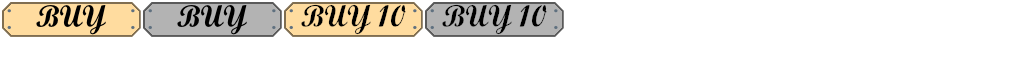
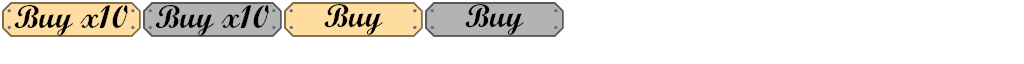
UI elements (Buttons) fix

Changed region(s): [[0.0, 0.0625, 0.5312, 0.5625]]

diff --git a/core/src/ui/MainMenu.java b/core/src/ui/MainMenu.java
@@ -6,15 +6,16 @@ import com.badlogic.gdx.graphics.g2d.BitmapFont;
 import com.badlogic.gdx.scenes.scene2d.ui.Image;
 import com.badlogic.gdx.scenes.scene2d.ui.Label;
 import com.badlogic.gdx.scenes.scene2d.ui.Table;
+import com.badlogic.gdx.utils.Align;
 import com.pl.firstclicker.PierogiClicker;
 
 public class MainMenu extends Table {
 
-    private Label.LabelStyle labelStyle;
+    private Label.LabelStyle labelStyle, warningLabelStyle;
     private Image menuBackground;
     private boolean menuHidden, warned;
     private PierogiClicker game;
-    private Label warningLabel;
+    private Label warningLabel, menuLabel;
 
     public MainMenu(PierogiClicker game){
         this.game = game;
@@ -28,7 +29,7 @@ public class MainMenu extends Table {
     }
 
     private void init() {
-        this.add(new Label("MAIN MENU",labelStyle)).height(100f).padTop(20f);
+        this.add(menuLabel).height(100f).padTop(20f);
         this.row();
         this.add(new MenuUIButton(true, new IClickCallback() {
             @Override
@@ -75,9 +76,13 @@ public class MainMenu extends Table {
     private void prepareContents() {
         labelStyle = new Label.LabelStyle();
         labelStyle.font = new BitmapFont(Gdx.files.internal("scriptfontbig.fnt"));
+        warningLabelStyle = new Label.LabelStyle();
+        warningLabelStyle.font = new BitmapFont(Gdx.files.internal("descfont.fnt"));
         menuBackground = new Image(new Texture("shopBg.png"));
         this.setBackground(menuBackground.getDrawable());
-        warningLabel = new Label("THIS WILL ERASE \nYOUR WHOLE PROGRESS.\nARE YOU SURE?",labelStyle);
+        menuLabel = new Label("MAIN MENU \n Created by Szymon Galazka",labelStyle);
+        menuLabel.setAlignment(Align.center);
+        warningLabel = new Label("THIS WILL ERASE \nYOUR WHOLE PROGRESS.\nARE YOU SURE?",warningLabelStyle);
     }
 
 }

diff --git a/core/src/ui/ShopMenu.java b/core/src/ui/ShopMenu.java
@@ -36,9 +36,9 @@ public class ShopMenu extends Table {
         this.setBackground(shopBg.getDrawable());
     }
     private void showContents(){
-        shopItems.add(new ShopItem("shopIcon.png","Blue Energy drink","(+1 passive income)\nGives your grandma a solid boost!",20,1,"PASSIVE"));
-        shopItems.add(new ShopItem("shopIcon.png","Red Energy drink","(+3 passive income)\nGives youur grandma enormous boost!",50,3,"PASSIVE"));
-        shopItems.add(new ShopItem("shopIcon.png","Black Energy drink","(+10 passive income)\nGives your grandma incredible boost!",200,10,"PASSIVE"));
+        shopItems.add(new ShopItem("shopIcon.png","Blue Energy drink","(+1 passive income)\nGives your grandma a solid boost!",20,0.1f,"PASSIVE"));
+        shopItems.add(new ShopItem("shopIcon.png","Red Energy drink","(+3 passive income)\nGives youur grandma enormous boost!",50,0.3f,"PASSIVE"));
+        shopItems.add(new ShopItem("shopIcon.png","Black Energy drink","(+10 passive income)\nGives your grandma incredible boost!",200,0.5f,"PASSIVE"));
         shopItems.add(new ShopItem("shopIcon.png","Neighbour visit","(+600 pierogies)\nYour grandma's sweetheart came here to help!",500,600,"POINTS"));
         shopItems.add(new ShopItem("shopIcon.png","Country club","(+2600 pierogies)\nThe whole village is helping!",2000,2600,"POINTS"));
         shopItems.add(new ShopItem("shopIcon.png","Title","gives you a solid boost!",5000,5600,"POINTS"));

diff --git a/core/src/entities/ShopItem.java b/core/src/entities/ShopItem.java
@@ -36,7 +36,7 @@ public class ShopItem extends Table{
         this.add(new Label(" ",labelStyle)).width(30f).expandY().fillY();
         this.add(new Label(title,bigLabelStyle)).width(100f).height(260f).padTop(-100f);
         this.add(new Label(" ",labelStyle)).width(160f).expandY().fillY();
-        this.add(new Label(price+"\npierogies",bigLabelStyle)).width(10f).height(260f).padTop(-60f);
+        this.add(new Label((int)price+"\npierogies",bigLabelStyle)).width(10f).height(260f).padTop(-60f);
         this.add(new Label(descr,labelStyle)).width(100f).height(60f).padLeft(-440f).padTop(30f);
         this.add(new Label(" ",labelStyle)).width(140f).expandY().fillY();
         this.add(x1 = new ShopBuyButton(false,new IClickCallback() {
@@ -64,7 +64,7 @@ public class ShopItem extends Table{
         texture = new Texture(texturePath);
         labelStyle = new Label.LabelStyle();
         bigLabelStyle = new Label.LabelStyle();
-        labelStyle.font = new BitmapFont(Gdx.files.internal("scriptfont.fnt"));
+        labelStyle.font = new BitmapFont(Gdx.files.internal("descfont.fnt"));
         bigLabelStyle.font = new BitmapFont(Gdx.files.internal("scriptfontbig.fnt"));
     }
 

diff --git a/core/src/screens/GameplayScreen.java b/core/src/screens/GameplayScreen.java
@@ -9,7 +9,7 @@ import com.pl.firstclicker.PierogiClicker;
 import controllers.FlyingObjectController;
 import controllers.RandomEventController;
 import entities.ClickablePierogi;
-import entities.Shelves;
+import ui.Shelves;
 import service.FeatureFlagService;
 import service.PassiveIncomeService;
 import ui.BasicDialog;
@@ -102,8 +102,8 @@ public class GameplayScreen extends AbstractScreen{
     }
 
     private void update() {
-        shopMenu.setButtons();
-        pointsFormatted = "PIEROGIES: "+String.format("%.2f", game.getScoreService().getPoints());
+        if(game.getFeatureFlagService().hasFeature(FeatureFlagService.FEATURE_SHOP)) shopMenu.setButtons();
+        pointsFormatted = "PIEROGIES: \n"+String.format("%.2f", game.getScoreService().getPoints());
         passiveIncomeFormatted = "\n\nPASSIVE\nINCOME: "+ String.format("%.2f", game.getScoreService().getPassiveIncome());
         gameLabel.setText(pointsFormatted+passiveIncomeFormatted);
         stage.act();

diff --git a/core/src/ui/MenuUIButton.java b/core/src/ui/MenuUIButton.java
@@ -28,11 +28,11 @@ public class MenuUIButton extends Button {
     }
 
     private static ButtonStyle prepareResetButtonStyle(boolean r){
-        TextureAtlas atlas = new TextureAtlas(Gdx.files.internal("buyButtons.atlas"));
+        TextureAtlas atlas = new TextureAtlas(Gdx.files.internal("buttons.atlas"));
         Skin skin = new Skin(atlas);
         ButtonStyle buttonStyle = new ButtonStyle();
-        if(r) buttonStyle.up = skin.getDrawable("buyButton");
-        else buttonStyle.up = skin.getDrawable("buy10Button");
+        if(r) buttonStyle.up = skin.getDrawable("resetButton");
+        else buttonStyle.up = skin.getDrawable("exitButton");
         return buttonStyle;
     }
 }

diff --git a/core/src/com/pl/firstclicker/PierogiClicker.java b/core/src/com/pl/firstclicker/PierogiClicker.java
@@ -1,7 +1,6 @@
 package com.pl.firstclicker;
 
 import com.badlogic.gdx.Game;
-import com.badlogic.gdx.graphics.Color;
 
 import screens.SplashScreen;
 import service.BalanceService;
@@ -15,8 +14,7 @@ public class PierogiClicker extends Game {
 
 	public static int WIDTH = 720;
 	public static int HEIGHT = 1280;
-
-	public static Color pinky = new Color(192f/255f, 132f/255f, 151f/255f, 255f/255f);
+	
 	private ScoreService scoreService;
 	private FeatureFlagService featureFlagService;
 	private BalanceService balanceService;

diff --git a/core/src/ui/ShopBuyButton.java b/core/src/ui/ShopBuyButton.java
@@ -32,7 +32,7 @@ public class ShopBuyButton extends Button {
     }
 
     private static ButtonStyle prepareShopButtonStyle(boolean multipleClick){
-        TextureAtlas atlas = new TextureAtlas(Gdx.files.internal("buyButtons.atlas"));
+        TextureAtlas atlas = new TextureAtlas(Gdx.files.internal("buttons.atlas"));
         Skin skin = new Skin(atlas);
         ButtonStyle buttonStyle = new ButtonStyle();
         if(!multipleClick) {

diff --git a/core/src/ui/Shelves.java b/core/src/ui/Shelves.java
@@ -1,4 +1,4 @@
-package entities;
+package ui;
 
 import com.badlogic.gdx.graphics.Texture;
 import com.badlogic.gdx.scenes.scene2d.ui.Image;
